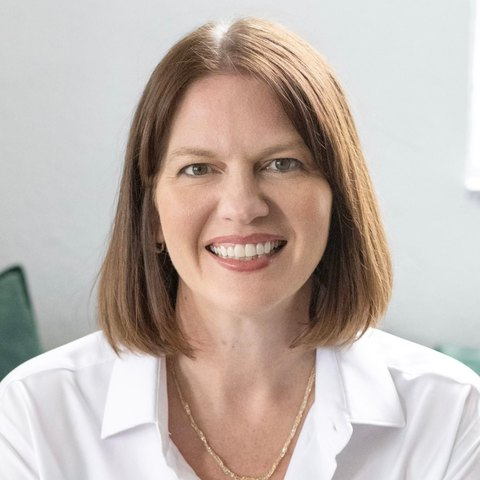
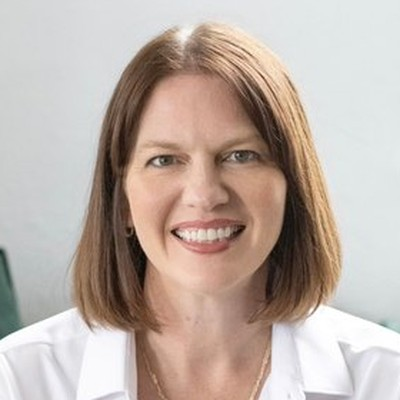
Reframe board photos for consistent face size
Claude-Session: https://claude.ai/code/session_01C9bL4owB6azj7Dpv59nEPu

diff --git a/index.html b/index.html
@@ -294,11 +294,11 @@ footer{background:var(--teal-dk);color:var(--on-dark-2);padding:72px 0 48px}
       <p style="font-size:18px;line-height:1.6;color:var(--body);max-width:640px">Five women who said yes to this calling, serving and guiding the ministry with faith, wisdom, and care.</p>
     </div>
     <div class="board">
-      <div class="member"><img src="images/jesi-waldrop.jpg" alt="Jesi Waldrop" width="148" height="148" loading="lazy"><h3>Jesi Waldrop</h3><p>FOUNDER &amp; PRESIDENT</p></div>
-      <div class="member"><img src="images/deanna-hurley.jpg" alt="Deanna Hurley" width="148" height="148" loading="lazy"><h3>Deanna Hurley</h3><p>SECRETARY &amp; TREASURER</p></div>
-      <div class="member"><img src="images/dorothy-groover-skipper.jpg" alt="Dorothy Groover-Skipper" width="148" height="148" loading="lazy"><h3>Dorothy Groover-Skipper</h3><p>DIRECTOR</p></div>
-      <div class="member"><img src="images/sunni-moreno.jpg" alt="Sunni Moreno" width="148" height="148" loading="lazy"><h3>Sunni Moreno</h3><p>DIRECTOR</p></div>
-      <div class="member"><img src="images/shannon-keil.jpg" alt="Shannon Keil" width="148" height="148" loading="lazy"><h3>Shannon Keil</h3><p>DIRECTOR</p></div>
+      <div class="member"><img src="images/jesi-waldrop.jpg?v=2" alt="Jesi Waldrop" width="148" height="148" loading="lazy"><h3>Jesi Waldrop</h3><p>FOUNDER &amp; PRESIDENT</p></div>
+      <div class="member"><img src="images/deanna-hurley.jpg?v=2" alt="Deanna Hurley" width="148" height="148" loading="lazy"><h3>Deanna Hurley</h3><p>SECRETARY &amp; TREASURER</p></div>
+      <div class="member"><img src="images/dorothy-groover-skipper.jpg?v=2" alt="Dorothy Groover-Skipper" width="148" height="148" loading="lazy"><h3>Dorothy Groover-Skipper</h3><p>DIRECTOR</p></div>
+      <div class="member"><img src="images/sunni-moreno.jpg?v=2" alt="Sunni Moreno" width="148" height="148" loading="lazy"><h3>Sunni Moreno</h3><p>DIRECTOR</p></div>
+      <div class="member"><img src="images/shannon-keil.jpg?v=2" alt="Shannon Keil" width="148" height="148" loading="lazy"><h3>Shannon Keil</h3><p>DIRECTOR</p></div>
     </div>
   </div>
 </section>
